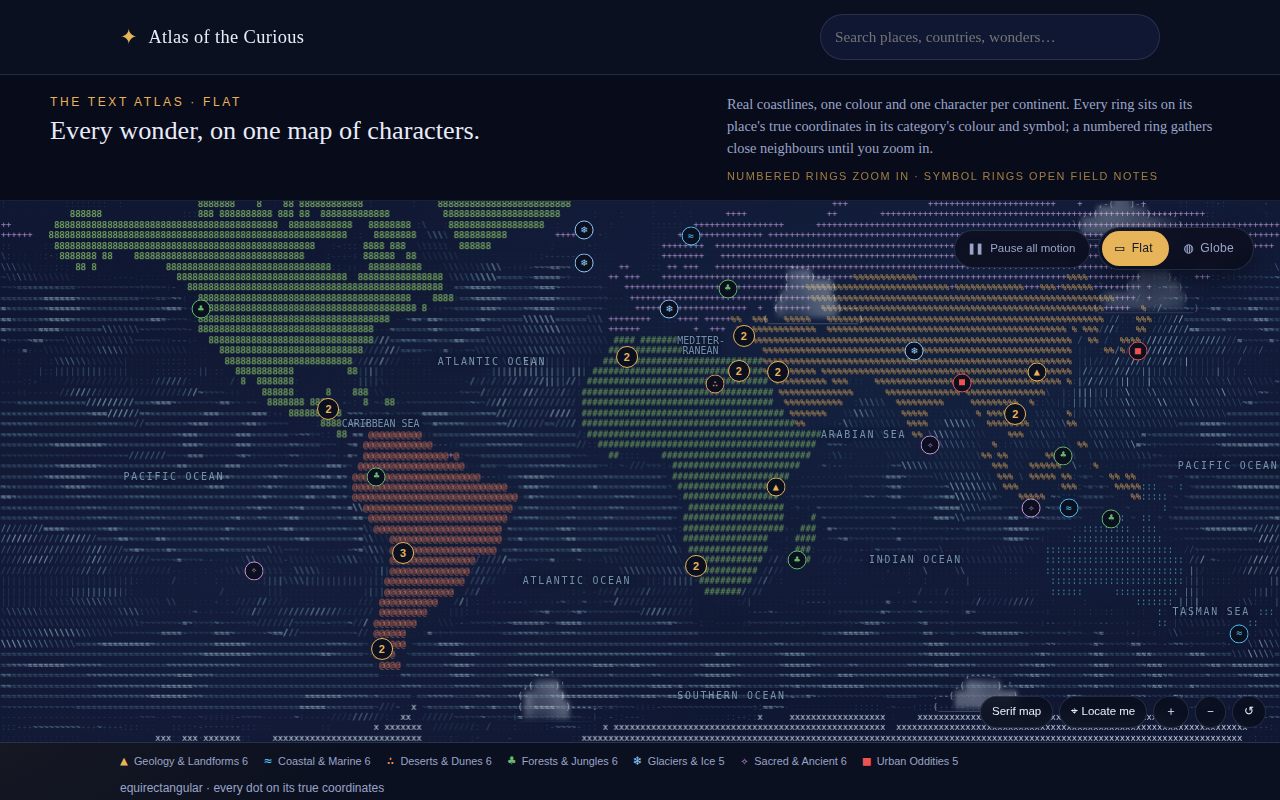
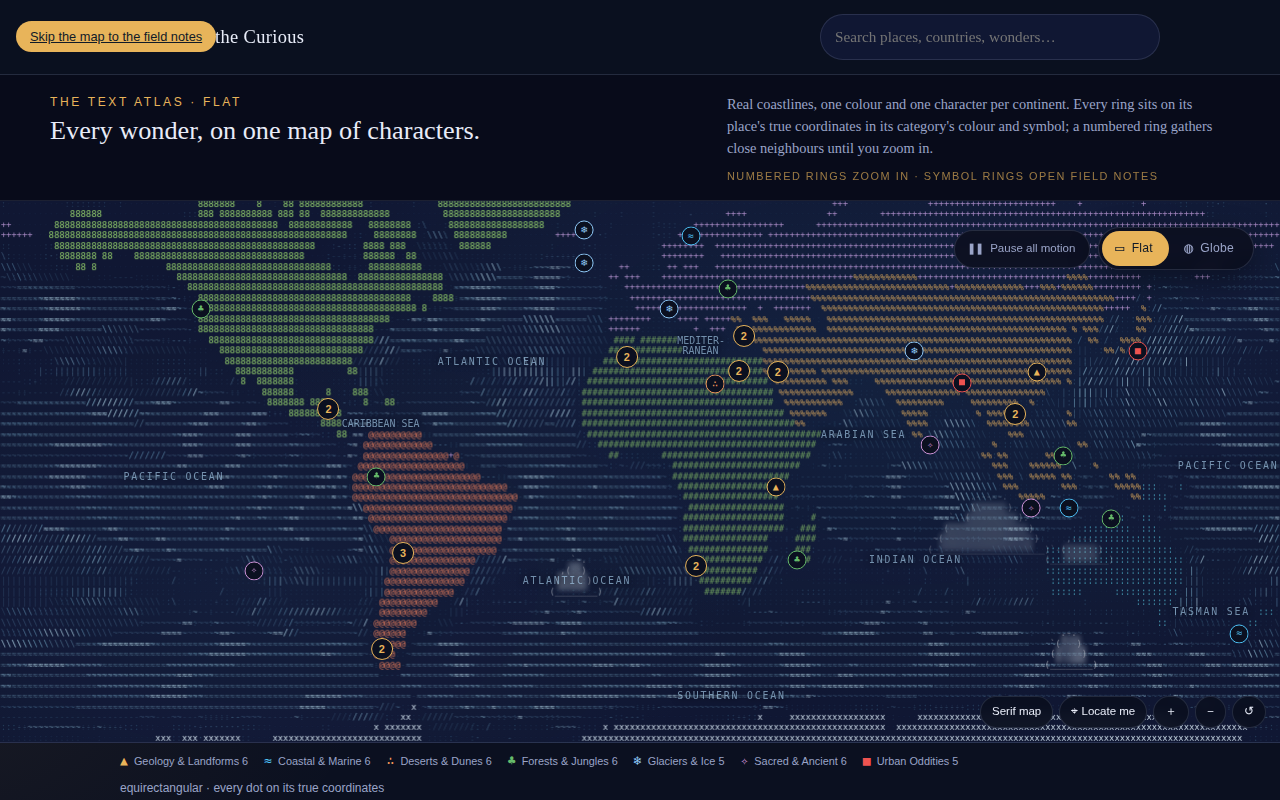
Address review round 10: tablet toolbars, flat touch policy, skip link
- Below 1100px (tablets as well as phones) the switch, filter readout and
  control bars move into toolbar rows instead of overflowing the map.
- The flat map has an explicit touch policy: vertical swipes scroll the
  page at 1x, a zoomed map takes one-finger pans; a cancelled gesture
  ends the drag.
- A skip link (shown on focus) steps over the map to the field notes.

diff --git a/css/globe.css b/css/globe.css
@@ -9,6 +9,25 @@
    slid the globe layer off the flat map it covers. `clip` cannot scroll. */
 #text-atlas .map-viewport { overflow: clip; }
 
+/* Keyboard users can step over the map's forty rings in one go. */
+.skip-link {
+  position: absolute;
+  left: 16px;
+  top: 8px;
+  z-index: 20;
+  padding: 8px 14px;
+  font: 0.8rem var(--font-sans);
+  color: #101a28;
+  background: var(--gold);
+  border-radius: 999px;
+}
+/* Out of sight (but in the tab order) until it has focus. */
+.skip-link:not(:focus) {
+  width: 1px; height: 1px; padding: 0;
+  overflow: hidden; clip-path: inset(50%); white-space: nowrap;
+}
+.skip-link:focus { outline: 2px solid var(--ink); outline-offset: 2px; }
+
 /* Copy written for one view only. */
 .atlas[data-view="flat"] .for-globe,
 .atlas[data-view="globe"] .for-flat { display: none !important; }
@@ -342,10 +361,10 @@
   #text-atlas .atlas-overlay .hero-kicker { grid-row: 1; margin-bottom: 6px; }
   #text-atlas .atlas-overlay .atlas-title { grid-row: 2 / span 2; align-self: start; }
 }
-/* Phone toolbars (js/views.js moves the floating controls into them). */
+/* Toolbar rows (js/views.js moves the floating controls into them) below
+   the width where the globe's control bar fits over the map. */
 .map-toolbar { display: none; }
-@media (max-width: 640px) {
-  #text-atlas .atlas-overlay { padding: 12px 16px 11px; }
+@media (max-width: 1099px) {
   .map-toolbar {
     display: flex;
     flex-wrap: wrap;
@@ -381,10 +400,13 @@
     display: -webkit-box; -webkit-line-clamp: 2; -webkit-box-orient: vertical; overflow: hidden;
   }
   .map-toolbar .atlas-filter-clear { flex: none; padding: 4px 10px; }
+  .map-toolbar .map-controls { flex-wrap: wrap; justify-content: flex-end; gap: 6px; }
+}
+@media (max-width: 640px) {
+  #text-atlas .atlas-overlay { padding: 12px 16px 11px; }
   .view-btn { padding: 6px 12px 6px 10px; font-size: 0.72rem; }
   .motion-btn { padding: 8px 12px; }
   .motion-label { position: absolute; width: 1px; height: 1px; overflow: hidden; clip: rect(0 0 0 0); white-space: nowrap; }
-  .map-toolbar .map-controls { flex-wrap: wrap; justify-content: flex-end; gap: 6px; }
   .map-controls .map-btn { padding: 6px 10px; }
   #map-locate { font-size: 0; }
   #map-locate::first-letter { font-size: 0.8rem; }

diff --git a/js/map.js b/js/map.js
@@ -1960,6 +1960,9 @@ import {
     // Counter-scale so markers and labels keep a constant on-screen size at any
     // zoom (CSS uses 1 / var(--zoom) for their dimensions).
     zoomEl.style.setProperty("--zoom", String(view.zoom));
+    // Touch policy: at 1x a vertical swipe scrolls the page (the map has
+    // nothing to pan); a zoomed map takes one-finger pans as its own.
+    if (stage) stage.style.touchAction = view.zoom > 1.001 ? "none" : "pan-y";
     reclusterFlat(false);
     // Panning moves labels with the map and changes nothing about where they
     // fit; only a zoom does. Re-route when the tier flips or the zoom has
@@ -3753,6 +3756,8 @@ import {
       drag.lastX = sx; drag.lastY = sy;
       drag.active = true; drag.moved = false;
     });
+    // A gesture the browser took over (a page scroll) ends the drag cleanly.
+    listen("pointercancel", () => { drag.active = false; drag.moved = false; });
     listen("pointerup", (e) => {
       const wasTap = drag.active && !drag.moved;
       drag.active = false;

diff --git a/js/views.js b/js/views.js
@@ -110,11 +110,11 @@ if (section && globeView) {
   showFilter(window.ATLAS_FILTER_STATE);
   document.getElementById("atlas-filter-clear")?.addEventListener("click", () => window.ATLAS_CLEAR_FILTER?.());
 
-  // On a phone the map is a short band, so its switch, filter readout and
-  // control bars leave it for toolbar rows above and below rather than
-  // covering the geography; wider screens float them over the map again.
+  // Below the wide layout (phones and tablets) the switch, filter readout
+  // and control bars leave the map for toolbar rows above and below rather
+  // than covering or overflowing it; wide screens float them over the map.
   const viewport = section.querySelector(".map-viewport");
-  const phone = matchMedia("(max-width: 640px)");
+  const phone = matchMedia("(max-width: 1099px)"); // where the globe bar no longer fits over the map
   const topBar = document.createElement("div");
   topBar.className = "map-toolbar map-toolbar-top";
   const bottomBar = document.createElement("div");

diff --git a/index.html b/index.html
@@ -51,6 +51,7 @@
 
   <main>
     <section class="atlas" id="text-atlas" data-view="flat" aria-labelledby="atlas-title">
+      <a class="skip-link" href="#hero-title">Skip the map to the field notes</a>
       <!-- The intro band and the map share one frame of fixed height (css/globe.css),
            so captions below it never resize the map. -->
       <div class="atlas-frame">
